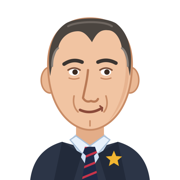
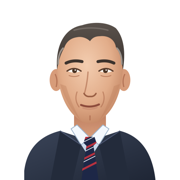
Actualizar Electrolingo

Changed region(s): [[0.1111, 0.0833, 0.8889, 1.0], [0.5833, 0.8333, 0.6944, 0.9167]]

diff --git a/index.html b/index.html
@@ -769,7 +769,7 @@ function setNav(show) {
 function topBar() {
   const stk = displayStreak(), L = state.p.days[dayKey(TODAY())] || { m: 0 };
   return `<header class="top">
-    <div class="brand"><span>Electrolingo</span><svg class="logo" viewBox="30 14 120 136" aria-hidden="true"><path d="M30 180 Q34 150 62 142 L90 150 L118 142 Q146 150 150 180 Z" fill="#2c3547"/> <path d="M70 140 L90 172 L110 140 L104 134 L76 134 Z" fill="#cfe0f3"/> <path d="M76 120 L76 140 Q90 150 104 140 L104 120 Z" fill="#e3ad88"/> <path d="M70 140 L82 154 L90 146 L98 154 L110 140 L104 136 L90 146 L76 136 Z" fill="#e8f1fb" stroke="#a9bfd6" stroke-width="1.2" stroke-linejoin="round"/> <path d="M85 147 L95 147 L97 153 L94 156 L98 180 L82 180 L86 156 L83 153 Z" fill="#1e2a48"/> <clipPath id="el-tie"><path d="M85 147 L95 147 L97 153 L94 156 L98 180 L82 180 L86 156 L83 153 Z"/></clipPath> <g clip-path="url(#el-tie)" stroke="#c8344a" stroke-width="2.2"> <path d="M78 150 L102 140M78 160 L102 150M78 170 L102 160M78 180 L102 170"/> </g> <path d="M62 142 L82 154 L74 180 L54 180 Z" fill="#222a3a"/> <path d="M118 142 L98 154 L106 180 L126 180 Z" fill="#222a3a"/> <polygon fill="#f2b632" stroke="#d99a0f" stroke-width="1" stroke-linejoin="round" transform="translate(114 158) scale(.16) translate(-90 -90)" points="90,46 104.1,79.6 140.4,82.4 112.8,106.2 121.1,141.6 90,122.6 58.9,141.6 67.2,106.2 39.6,82.4 75.9,79.6"/> <ellipse cx="50" cy="80" rx="9" ry="13" fill="#eab894" stroke="#c98c66" stroke-width="1.5"/> <ellipse cx="130" cy="80" rx="9" ry="13" fill="#eab894" stroke="#c98c66" stroke-width="1.5"/> <path d="M90 18 C120 18 134 40 132 70 C131 96 120 120 100 128 Q90 132 80 128 C60 120 49 96 48 70 C46 40 60 18 90 18 Z" fill="#f1c4a2" stroke="#c98c66" stroke-width="1.8"/> <path d="M120 40 C130 60 128 96 108 122 C122 108 130 88 129 66 Z" fill="#e3ad88" opacity=".7"/> <path d="M50 76 C46 52 52 32 66 23 C76 17 104 16 116 23 C128 32 134 50 130 76 C128 64 126 54 122 48 C121 40 116 30 108 30 C100 29 96 34 92 42 C88 36 84 31 78 31 C68 31 60 38 58 48 C54 54 52 64 50 76 Z" fill="#4b4540"/> <path d="M52 66 C52 56 55 50 58 48M128 66 C128 56 125 50 122 48" fill="none" stroke="#8a827b" stroke-width="2" stroke-linecap="round"/> <path d="M68 26 C76 21 104 20 112 26" fill="none" stroke="#6e6660" stroke-width="2" stroke-linecap="round"/> <path d="M64 64 Q73 58 82 62" fill="none" stroke="#3b3531" stroke-width="3.6" stroke-linecap="round"/> <path d="M98 62 Q107 58 116 63" fill="none" stroke="#3b3531" stroke-width="3.6" stroke-linecap="round"/> <ellipse cx="74" cy="72" rx="5.2" ry="3.6" fill="#fff"/> <ellipse cx="106" cy="72" rx="5.2" ry="3.6" fill="#fff"/> <circle cx="75" cy="72" r="2.7" fill="#3a2a20"/> <circle cx="107" cy="72" r="2.7" fill="#3a2a20"/> <path d="M68 70 Q74 66 80 70M100 70 Q106 66 112 70" fill="none" stroke="#7a4f3a" stroke-width="1.6" stroke-linecap="round"/> <path d="M69 78 Q74 80 79 78M101 78 Q106 80 111 78" fill="none" stroke="#c98c66" stroke-width="1.3" stroke-linecap="round"/> <path d="M88 70 C87 82 84 92 83 98 Q86 103 91 101 Q96 103 98 99" fill="none" stroke="#b97a56" stroke-width="2.2" stroke-linecap="round" stroke-linejoin="round"/> <path d="M74 96 Q72 106 78 112" fill="none" stroke="#c98c66" stroke-width="1.6" stroke-linecap="round"/> <path d="M106 96 Q109 106 104 112" fill="none" stroke="#c98c66" stroke-width="1.6" stroke-linecap="round"/> <path d="M80 110 Q91 115 102 108" fill="none" stroke="#8a4a3a" stroke-width="2.6" stroke-linecap="round"/> <path d="M100 106 Q103 108 102 111" fill="none" stroke="#8a4a3a" stroke-width="1.6" stroke-linecap="round"/> <path d="M90 121 L90 126" stroke="#c98c66" stroke-width="1.5" stroke-linecap="round"/></svg></div>
+    <div class="brand"><span>Electrolingo</span><svg class="logo" viewBox="30 14 120 136" aria-hidden="true"><defs> <radialGradient id="el-skin" cx="45%" cy="40%" r="65%"><stop offset="0" stop-color="#f3cdb0"/><stop offset=".6" stop-color="#e2ad8a"/><stop offset="1" stop-color="#c18462"/></radialGradient> <linearGradient id="el-neck" x1="0" y1="0" x2="0" y2="1"><stop offset="0" stop-color="#b9785a"/><stop offset="1" stop-color="#d79d7c"/></linearGradient> <linearGradient id="el-hair" x1="0" y1="0" x2="0" y2="1"><stop offset="0" stop-color="#5a524c"/><stop offset="1" stop-color="#3a332f"/></linearGradient> <linearGradient id="el-suit" x1="0" y1="0" x2="1" y2="1"><stop offset="0" stop-color="#3a4458"/><stop offset="1" stop-color="#1e2534"/></linearGradient> <linearGradient id="el-shirt" x1="0" y1="0" x2="0" y2="1"><stop offset="0" stop-color="#e9f1fb"/><stop offset="1" stop-color="#b9cde3"/></linearGradient> <clipPath id="el-tie"><path d="M85.5 146 L94.5 146 L96.5 152 L93.5 155 L98 180 L82 180 L86.5 155 L83.5 152 Z"/></clipPath> </defs> <path d="M74 108 L74 132 Q90 144 106 132 L106 108 Z" fill="url(#el-neck)"/> <g transform="translate(0 -9)"> <path d="M24 180 Q28 148 60 140 L90 150 L120 140 Q152 148 156 192 L24 192 Z" fill="url(#el-suit)"/> <path d="M71 138 L90 168 L109 138 L103 134 L90 147 L77 134 Z" fill="url(#el-shirt)"/> <path d="M71 138 L81 154 L90 147 L77 134 Z M109 138 L99 154 L90 147 L103 134 Z" fill="#f4f8fd" stroke="#9fb5cc" stroke-width=".8" stroke-linejoin="round"/> <path d="M85.5 146 L94.5 146 L96.5 152 L93.5 155 L99 192 L81 192 L86.5 155 L83.5 152 Z" fill="#1d2747"/> <g clip-path="url(#el-tie)"><g stroke="#b8323f" stroke-width="2"><path d="M76 152 L104 138M76 162 L104 148M76 172 L104 158M76 182 L104 168"/></g><g stroke="#e6e9ef" stroke-width=".7"><path d="M76 155 L104 141M76 165 L104 151M76 175 L104 161"/></g></g> <path d="M60 140 L81 154 L72 192 L50 192 Z" fill="#232b3b"/> <path d="M120 140 L99 154 L108 192 L130 192 Z" fill="#232b3b"/> <path d="M60 140 L81 154 M120 140 L99 154" stroke="#4a5570" stroke-width="1"/> </g> <ellipse cx="56" cy="80" rx="6.5" ry="11" fill="#d79c7a"/> <ellipse cx="124" cy="80" rx="6.5" ry="11" fill="#d79c7a"/> <path d="M55 74 Q58 80 56 87M125 74 Q122 80 124 87" fill="none" stroke="#b47456" stroke-width="1.2"/> <path d="M90 26 C113 26 124 44 123 68 C122 92 114 112 99 121 Q90 126 81 121 C66 112 58 92 57 68 C56 44 67 26 90 26 Z" fill="url(#el-skin)"/> <path d="M60 84 Q66 104 81 121 Q72 106 66 86 Z M120 84 Q114 104 99 121 Q108 106 114 86 Z" fill="#b97a5a" opacity=".35"/> <path d="M57 70 C55 46 64 28 82 25 C94 21 108 22 116 28 C124 37 126 52 123 70 C122 60 120 52 116 47 C115 40 109 35 100 36 C95 36 92 38 90 41 C87 38 82 36 77 37 C70 38 66 42 64 48 C61 53 58 61 57 70 Z" fill="url(#el-hair)"/> <path d="M58 64 C58 56 60 51 63 48M122 64 C122 56 120 51 117 48" fill="none" stroke="#9b938c" stroke-width="1.6" stroke-linecap="round"/> <path d="M74 30 C84 27 98 27 108 30" fill="none" stroke="#7a726c" stroke-width="1.4" stroke-linecap="round" opacity=".8"/> <path d="M66 63 Q73 59.5 82 61.5" fill="none" stroke="#3d332d" stroke-width="3" stroke-linecap="round"/> <path d="M98 61.5 Q107 59.5 114 63" fill="none" stroke="#3d332d" stroke-width="3" stroke-linecap="round"/> <path d="M67.5 71 Q74 66.5 80.5 71 Q74 74 67.5 71 Z" fill="#fbf7f2"/> <path d="M99.5 71 Q106 66.5 112.5 71 Q106 74 99.5 71 Z" fill="#fbf7f2"/> <circle cx="74.5" cy="70.6" r="2.4" fill="#4a3324"/><circle cx="105.5" cy="70.6" r="2.4" fill="#4a3324"/> <circle cx="75.2" cy="70" r=".7" fill="#fff"/><circle cx="106.2" cy="70" r=".7" fill="#fff"/> <path d="M67 71 Q74 66 81 71M99 71 Q106 66 113 71" fill="none" stroke="#5a3c2c" stroke-width="1.4" stroke-linecap="round"/> <path d="M69 75.5 Q74 77.5 79 75.5M101 75.5 Q106 77.5 111 75.5" fill="none" stroke="#b47456" stroke-width=".9" stroke-linecap="round" opacity=".8"/> <path d="M88 72 C87.5 80 86 88 84.5 93" fill="none" stroke="#b47456" stroke-width="1.3" stroke-linecap="round" opacity=".7"/> <path d="M84 93.5 Q86 97 90 96.5 Q94 97 96 93.5" fill="none" stroke="#9a5e44" stroke-width="1.5" stroke-linecap="round"/> <ellipse cx="90" cy="92" rx="4" ry="2.4" fill="#e9b796" opacity=".7"/> <path d="M77 92 Q74 100 79 107M103 92 Q106 100 101 107" fill="none" stroke="#b47456" stroke-width="1.1" stroke-linecap="round" opacity=".7"/> <path d="M81 105 Q90 108.5 99 104.5" fill="none" stroke="#8e4c3c" stroke-width="2" stroke-linecap="round"/> <path d="M83 108 Q90 110.5 97 107.5" fill="none" stroke="#c98a70" stroke-width="1.6" stroke-linecap="round" opacity=".7"/> <path d="M90 116 L90 120" stroke="#b47456" stroke-width="1.2" stroke-linecap="round"/></svg></div>
     <div class="stats">
       <span class="stat-chip${stk.n ? " flame" : ""}" title="Racha de días">${UI_ICON.flame}${stk.n}</span>
       <span class="stat-chip gold" title="Experiencia">${UI_ICON.bolt}${state.p.xp}</span>
@@ -1424,7 +1424,7 @@ async function decryptBundle(b64, code) {
 const CODE_KEY = LS + "-codigo";
 function askCode(cipher, error) {
   root.innerHTML = `
-    <header class="top"><div class="brand"><span>Electrolingo</span><svg class="logo" viewBox="30 14 120 136" aria-hidden="true"><path d="M30 180 Q34 150 62 142 L90 150 L118 142 Q146 150 150 180 Z" fill="#2c3547"/> <path d="M70 140 L90 172 L110 140 L104 134 L76 134 Z" fill="#cfe0f3"/> <path d="M76 120 L76 140 Q90 150 104 140 L104 120 Z" fill="#e3ad88"/> <path d="M70 140 L82 154 L90 146 L98 154 L110 140 L104 136 L90 146 L76 136 Z" fill="#e8f1fb" stroke="#a9bfd6" stroke-width="1.2" stroke-linejoin="round"/> <path d="M85 147 L95 147 L97 153 L94 156 L98 180 L82 180 L86 156 L83 153 Z" fill="#1e2a48"/> <clipPath id="el-tie"><path d="M85 147 L95 147 L97 153 L94 156 L98 180 L82 180 L86 156 L83 153 Z"/></clipPath> <g clip-path="url(#el-tie)" stroke="#c8344a" stroke-width="2.2"> <path d="M78 150 L102 140M78 160 L102 150M78 170 L102 160M78 180 L102 170"/> </g> <path d="M62 142 L82 154 L74 180 L54 180 Z" fill="#222a3a"/> <path d="M118 142 L98 154 L106 180 L126 180 Z" fill="#222a3a"/> <polygon fill="#f2b632" stroke="#d99a0f" stroke-width="1" stroke-linejoin="round" transform="translate(114 158) scale(.16) translate(-90 -90)" points="90,46 104.1,79.6 140.4,82.4 112.8,106.2 121.1,141.6 90,122.6 58.9,141.6 67.2,106.2 39.6,82.4 75.9,79.6"/> <ellipse cx="50" cy="80" rx="9" ry="13" fill="#eab894" stroke="#c98c66" stroke-width="1.5"/> <ellipse cx="130" cy="80" rx="9" ry="13" fill="#eab894" stroke="#c98c66" stroke-width="1.5"/> <path d="M90 18 C120 18 134 40 132 70 C131 96 120 120 100 128 Q90 132 80 128 C60 120 49 96 48 70 C46 40 60 18 90 18 Z" fill="#f1c4a2" stroke="#c98c66" stroke-width="1.8"/> <path d="M120 40 C130 60 128 96 108 122 C122 108 130 88 129 66 Z" fill="#e3ad88" opacity=".7"/> <path d="M50 76 C46 52 52 32 66 23 C76 17 104 16 116 23 C128 32 134 50 130 76 C128 64 126 54 122 48 C121 40 116 30 108 30 C100 29 96 34 92 42 C88 36 84 31 78 31 C68 31 60 38 58 48 C54 54 52 64 50 76 Z" fill="#4b4540"/> <path d="M52 66 C52 56 55 50 58 48M128 66 C128 56 125 50 122 48" fill="none" stroke="#8a827b" stroke-width="2" stroke-linecap="round"/> <path d="M68 26 C76 21 104 20 112 26" fill="none" stroke="#6e6660" stroke-width="2" stroke-linecap="round"/> <path d="M64 64 Q73 58 82 62" fill="none" stroke="#3b3531" stroke-width="3.6" stroke-linecap="round"/> <path d="M98 62 Q107 58 116 63" fill="none" stroke="#3b3531" stroke-width="3.6" stroke-linecap="round"/> <ellipse cx="74" cy="72" rx="5.2" ry="3.6" fill="#fff"/> <ellipse cx="106" cy="72" rx="5.2" ry="3.6" fill="#fff"/> <circle cx="75" cy="72" r="2.7" fill="#3a2a20"/> <circle cx="107" cy="72" r="2.7" fill="#3a2a20"/> <path d="M68 70 Q74 66 80 70M100 70 Q106 66 112 70" fill="none" stroke="#7a4f3a" stroke-width="1.6" stroke-linecap="round"/> <path d="M69 78 Q74 80 79 78M101 78 Q106 80 111 78" fill="none" stroke="#c98c66" stroke-width="1.3" stroke-linecap="round"/> <path d="M88 70 C87 82 84 92 83 98 Q86 103 91 101 Q96 103 98 99" fill="none" stroke="#b97a56" stroke-width="2.2" stroke-linecap="round" stroke-linejoin="round"/> <path d="M74 96 Q72 106 78 112" fill="none" stroke="#c98c66" stroke-width="1.6" stroke-linecap="round"/> <path d="M106 96 Q109 106 104 112" fill="none" stroke="#c98c66" stroke-width="1.6" stroke-linecap="round"/> <path d="M80 110 Q91 115 102 108" fill="none" stroke="#8a4a3a" stroke-width="2.6" stroke-linecap="round"/> <path d="M100 106 Q103 108 102 111" fill="none" stroke="#8a4a3a" stroke-width="1.6" stroke-linecap="round"/> <path d="M90 121 L90 126" stroke="#c98c66" stroke-width="1.5" stroke-linecap="round"/></svg></div></header>
+    <header class="top"><div class="brand"><span>Electrolingo</span><svg class="logo" viewBox="30 14 120 136" aria-hidden="true"><defs> <radialGradient id="el-skin" cx="45%" cy="40%" r="65%"><stop offset="0" stop-color="#f3cdb0"/><stop offset=".6" stop-color="#e2ad8a"/><stop offset="1" stop-color="#c18462"/></radialGradient> <linearGradient id="el-neck" x1="0" y1="0" x2="0" y2="1"><stop offset="0" stop-color="#b9785a"/><stop offset="1" stop-color="#d79d7c"/></linearGradient> <linearGradient id="el-hair" x1="0" y1="0" x2="0" y2="1"><stop offset="0" stop-color="#5a524c"/><stop offset="1" stop-color="#3a332f"/></linearGradient> <linearGradient id="el-suit" x1="0" y1="0" x2="1" y2="1"><stop offset="0" stop-color="#3a4458"/><stop offset="1" stop-color="#1e2534"/></linearGradient> <linearGradient id="el-shirt" x1="0" y1="0" x2="0" y2="1"><stop offset="0" stop-color="#e9f1fb"/><stop offset="1" stop-color="#b9cde3"/></linearGradient> <clipPath id="el-tie"><path d="M85.5 146 L94.5 146 L96.5 152 L93.5 155 L98 180 L82 180 L86.5 155 L83.5 152 Z"/></clipPath> </defs> <path d="M74 108 L74 132 Q90 144 106 132 L106 108 Z" fill="url(#el-neck)"/> <g transform="translate(0 -9)"> <path d="M24 180 Q28 148 60 140 L90 150 L120 140 Q152 148 156 192 L24 192 Z" fill="url(#el-suit)"/> <path d="M71 138 L90 168 L109 138 L103 134 L90 147 L77 134 Z" fill="url(#el-shirt)"/> <path d="M71 138 L81 154 L90 147 L77 134 Z M109 138 L99 154 L90 147 L103 134 Z" fill="#f4f8fd" stroke="#9fb5cc" stroke-width=".8" stroke-linejoin="round"/> <path d="M85.5 146 L94.5 146 L96.5 152 L93.5 155 L99 192 L81 192 L86.5 155 L83.5 152 Z" fill="#1d2747"/> <g clip-path="url(#el-tie)"><g stroke="#b8323f" stroke-width="2"><path d="M76 152 L104 138M76 162 L104 148M76 172 L104 158M76 182 L104 168"/></g><g stroke="#e6e9ef" stroke-width=".7"><path d="M76 155 L104 141M76 165 L104 151M76 175 L104 161"/></g></g> <path d="M60 140 L81 154 L72 192 L50 192 Z" fill="#232b3b"/> <path d="M120 140 L99 154 L108 192 L130 192 Z" fill="#232b3b"/> <path d="M60 140 L81 154 M120 140 L99 154" stroke="#4a5570" stroke-width="1"/> </g> <ellipse cx="56" cy="80" rx="6.5" ry="11" fill="#d79c7a"/> <ellipse cx="124" cy="80" rx="6.5" ry="11" fill="#d79c7a"/> <path d="M55 74 Q58 80 56 87M125 74 Q122 80 124 87" fill="none" stroke="#b47456" stroke-width="1.2"/> <path d="M90 26 C113 26 124 44 123 68 C122 92 114 112 99 121 Q90 126 81 121 C66 112 58 92 57 68 C56 44 67 26 90 26 Z" fill="url(#el-skin)"/> <path d="M60 84 Q66 104 81 121 Q72 106 66 86 Z M120 84 Q114 104 99 121 Q108 106 114 86 Z" fill="#b97a5a" opacity=".35"/> <path d="M57 70 C55 46 64 28 82 25 C94 21 108 22 116 28 C124 37 126 52 123 70 C122 60 120 52 116 47 C115 40 109 35 100 36 C95 36 92 38 90 41 C87 38 82 36 77 37 C70 38 66 42 64 48 C61 53 58 61 57 70 Z" fill="url(#el-hair)"/> <path d="M58 64 C58 56 60 51 63 48M122 64 C122 56 120 51 117 48" fill="none" stroke="#9b938c" stroke-width="1.6" stroke-linecap="round"/> <path d="M74 30 C84 27 98 27 108 30" fill="none" stroke="#7a726c" stroke-width="1.4" stroke-linecap="round" opacity=".8"/> <path d="M66 63 Q73 59.5 82 61.5" fill="none" stroke="#3d332d" stroke-width="3" stroke-linecap="round"/> <path d="M98 61.5 Q107 59.5 114 63" fill="none" stroke="#3d332d" stroke-width="3" stroke-linecap="round"/> <path d="M67.5 71 Q74 66.5 80.5 71 Q74 74 67.5 71 Z" fill="#fbf7f2"/> <path d="M99.5 71 Q106 66.5 112.5 71 Q106 74 99.5 71 Z" fill="#fbf7f2"/> <circle cx="74.5" cy="70.6" r="2.4" fill="#4a3324"/><circle cx="105.5" cy="70.6" r="2.4" fill="#4a3324"/> <circle cx="75.2" cy="70" r=".7" fill="#fff"/><circle cx="106.2" cy="70" r=".7" fill="#fff"/> <path d="M67 71 Q74 66 81 71M99 71 Q106 66 113 71" fill="none" stroke="#5a3c2c" stroke-width="1.4" stroke-linecap="round"/> <path d="M69 75.5 Q74 77.5 79 75.5M101 75.5 Q106 77.5 111 75.5" fill="none" stroke="#b47456" stroke-width=".9" stroke-linecap="round" opacity=".8"/> <path d="M88 72 C87.5 80 86 88 84.5 93" fill="none" stroke="#b47456" stroke-width="1.3" stroke-linecap="round" opacity=".7"/> <path d="M84 93.5 Q86 97 90 96.5 Q94 97 96 93.5" fill="none" stroke="#9a5e44" stroke-width="1.5" stroke-linecap="round"/> <ellipse cx="90" cy="92" rx="4" ry="2.4" fill="#e9b796" opacity=".7"/> <path d="M77 92 Q74 100 79 107M103 92 Q106 100 101 107" fill="none" stroke="#b47456" stroke-width="1.1" stroke-linecap="round" opacity=".7"/> <path d="M81 105 Q90 108.5 99 104.5" fill="none" stroke="#8e4c3c" stroke-width="2" stroke-linecap="round"/> <path d="M83 108 Q90 110.5 97 107.5" fill="none" stroke="#c98a70" stroke-width="1.6" stroke-linecap="round" opacity=".7"/> <path d="M90 116 L90 120" stroke="#b47456" stroke-width="1.2" stroke-linecap="round"/></svg></div></header>
     <form class="card" id="gate" style="margin-top:12vh">
       <div class="eyebrow">Acceso con código</div>
       <h1>Escribe el código para entrar</h1>
